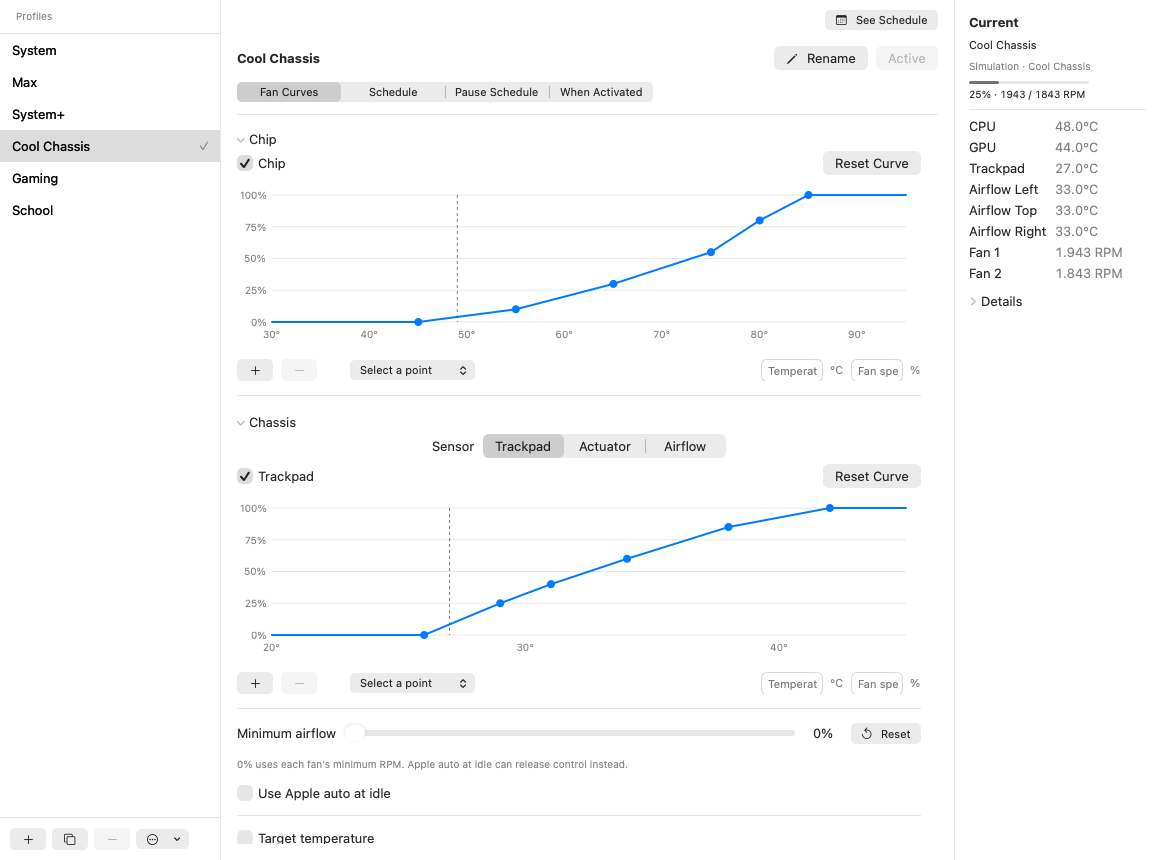
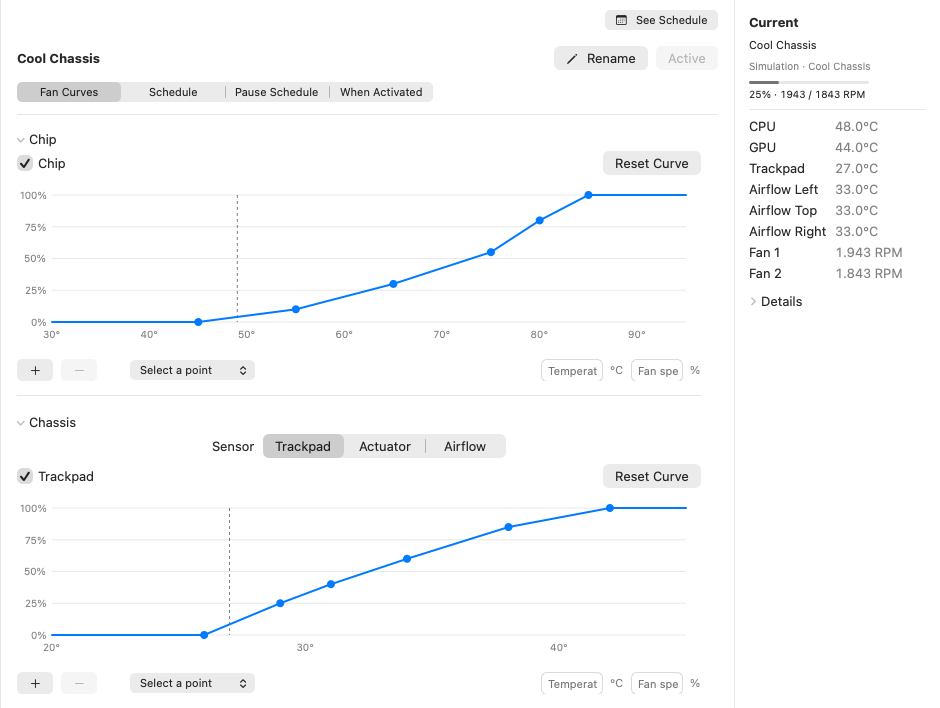
Focus app image on curves and highlight temperature monitoring

diff --git a/README.md b/README.md
@@ -14,7 +14,7 @@
 ![Fandy's profile editor](docs/images/profiles.png)
 <p align="center"><sub>Rendered from Fandy’s app views using demo readings.</sub></p>
 
-Fandy is a native menu-bar fan controller. Switch profiles, edit cooling curves and schedule cooling around your day.
+Fandy is a native menu-bar fan controller and temperature monitor. View chip and chassis temperatures alongside fan speeds, switch cooling profiles, and schedule cooling around your day.
 
 ## Get started
 
@@ -42,7 +42,8 @@ Create and edit custom profiles with intuitive graphs for chip and chassis tempe
 
 - **Temporary cooling:** activate a profile for minutes or hours, until a time, or until an application closes.
 - **Schedules:** choose weekday periods, overnight schedules and vacation pauses.
-- **At a glance:** customize temperature and fan-speed readouts, and assign keyboard shortcuts.
+- **Temperature monitoring:** see CPU, GPU, trackpad and other available sensor readings beside the profile editor. Choose which temperatures appear in the menu.
+- **At a glance:** show fan speeds and assign keyboard shortcuts.
 - **Make it portable:** export individual profiles with their schedules, or move your whole configuration to another Mac.
 
 ## Compatibility
